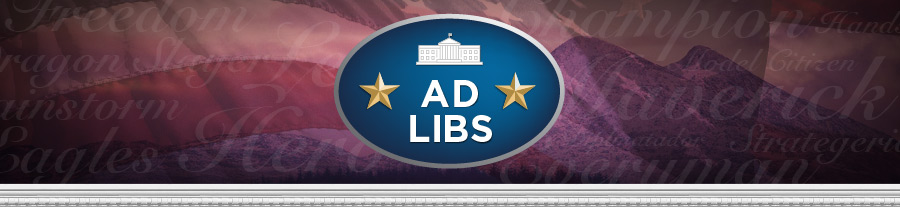
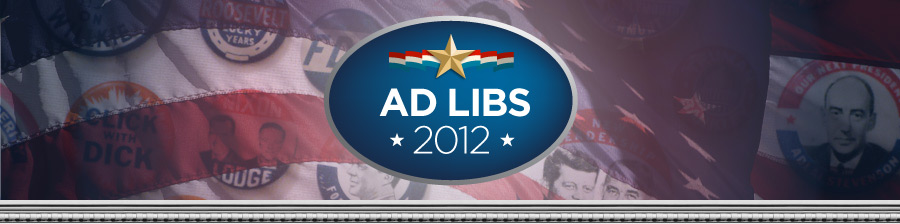
Updated to latest design.

diff --git a/style.css b/style.css
@@ -71,10 +71,28 @@ td { vertical-align: top; }
 /* PBS NewsHour AdMaker 2012 */
 
 /*
-Font weights available:
+Fonts:
+
+minion-pro (serif; body)
+Regular: 400
+Italic: 400
+Bold: 700
+Bold Italic: 700
+
+proxima-nova
+Semibold: 600
+Black: 900
+
+bickham-script-pro (script)
 Regular: 400
 Bold: 700
-Black: 900
+
+ff-brokenscript-web (blackletter)
+Bold: 700
+
+krelin-pro-web (hand)
+Regular: 400
+
 */
 
 html,
@@ -110,34 +128,9 @@ hr
   margin: 2em 0;
 }
 
-.pbs
-{
-  background: #192a45;
-  color: #fff;
-  font-size: 14px;
-  font-style: italic;
-  padding: .5em 0 .6em;
-  text-align: center;
-}
-
-.pbs img
-{
-  vertical-align: -5px;
-}
-
-.pbs strong
-{
-  font-family: Helvetica, Arial, sans-serif;
-  font-size: 15px;
-  font-style: normal;
-  font-weight: 700;
-  padding-left: .5em;
-  text-transform: uppercase;
-}
-
 .container
 {
-  background: url(img/body.png);
+  background: url(img/body.png) top;
   margin: 0 auto;
   padding: 0 50px 30px 50px;
   width: 800px;
@@ -150,18 +143,37 @@ header h1
   margin: 0 0 0 -50px;
   padding: 0;
   width: 900px;
-  height: 207px;
+  height: 224px;
 }
 
 .tagline
 {
   color: #919191;
-  font-size: 22px;
+  font-size: 23px;
   font-style: italic;
   line-height: 1.6;
-  margin: 1.5em 0 2.25em;
+  margin: 1em 0 1em;
   text-align: center;
   text-shadow: 2px 2px 0 #fff;
+}
+
+.tagline .pbs
+{
+  color: #153350;
+  display: block;
+  font-family: 'proxima-nova';
+  font-size: 28px;
+  font-style: normal;
+  font-weight: 600;
+  margin: 0 0 .35em;
+  text-transform: uppercase;
+  text-shadow: none;
+}
+
+.tagline .pbs img
+{
+  margin-right: .25em;
+  vertical-align: -9px;
 }
 
 #ad_type_cycle
@@ -203,7 +215,7 @@ header h1
   background: url(img/video_frame.png) left top no-repeat;
   width: 800px;
   height: 450px;
-  margin-left: -13px;
+  margin: 0 0 3em -13px;
   padding: 13px 13px 21px 20px;
   position: relative;
 }
@@ -221,8 +233,8 @@ header h1
 img.pin
 {
   position: absolute;
-  top: -90px;
-  left: -45px;
+  top: -95px;
+  left: -35px;
   -webkit-transition: all .2s ease-in-out;
   -moz-transition: all .2s ease-in-out;
   -o-transition: all .2s ease-in-out;
@@ -240,7 +252,7 @@ img.pin.gone
 img.crest
 {
   position: absolute;
-  top: -30px;
+  bottom: -35px;
   left: 322px;
   -webkit-transition: all .2s ease-in-out;
   -moz-transition: all .2s ease-in-out;
@@ -252,8 +264,8 @@ img.crest
 img.crest.gone
 {
   position: absolute;
-  top: -600px;
-  left: -100px;
+  bottom: -600px;
+  left: 322px;
 }
 
 #poster

diff --git a/index.php b/index.php
@@ -24,10 +24,6 @@
 	<body>
     <div id="fb-root"></div>
 
-	  <div class="pbs">
-	    Presented by: <strong><img src="img/pbs.png" alt="small PBS logo" title="PBS"> NewsHour</strong>
-    </div>
-
 		<div class="container">
 
 		  <header>
@@ -35,7 +31,8 @@
 		  </header>
 
   		<p class="tagline">
-  		  <strong>PBS NewsHour</strong> presents
+  		    <strong class="pbs"><img src="img/pbs.png" alt="PBS face logo" title="PBS"> PBS NewsHour</strong>
+  	      Presents
   		    <span id="ad_type_cycle">
   		      <em class="biographical">Biographical</em>
   		      <em class="attack">Attack</em>
